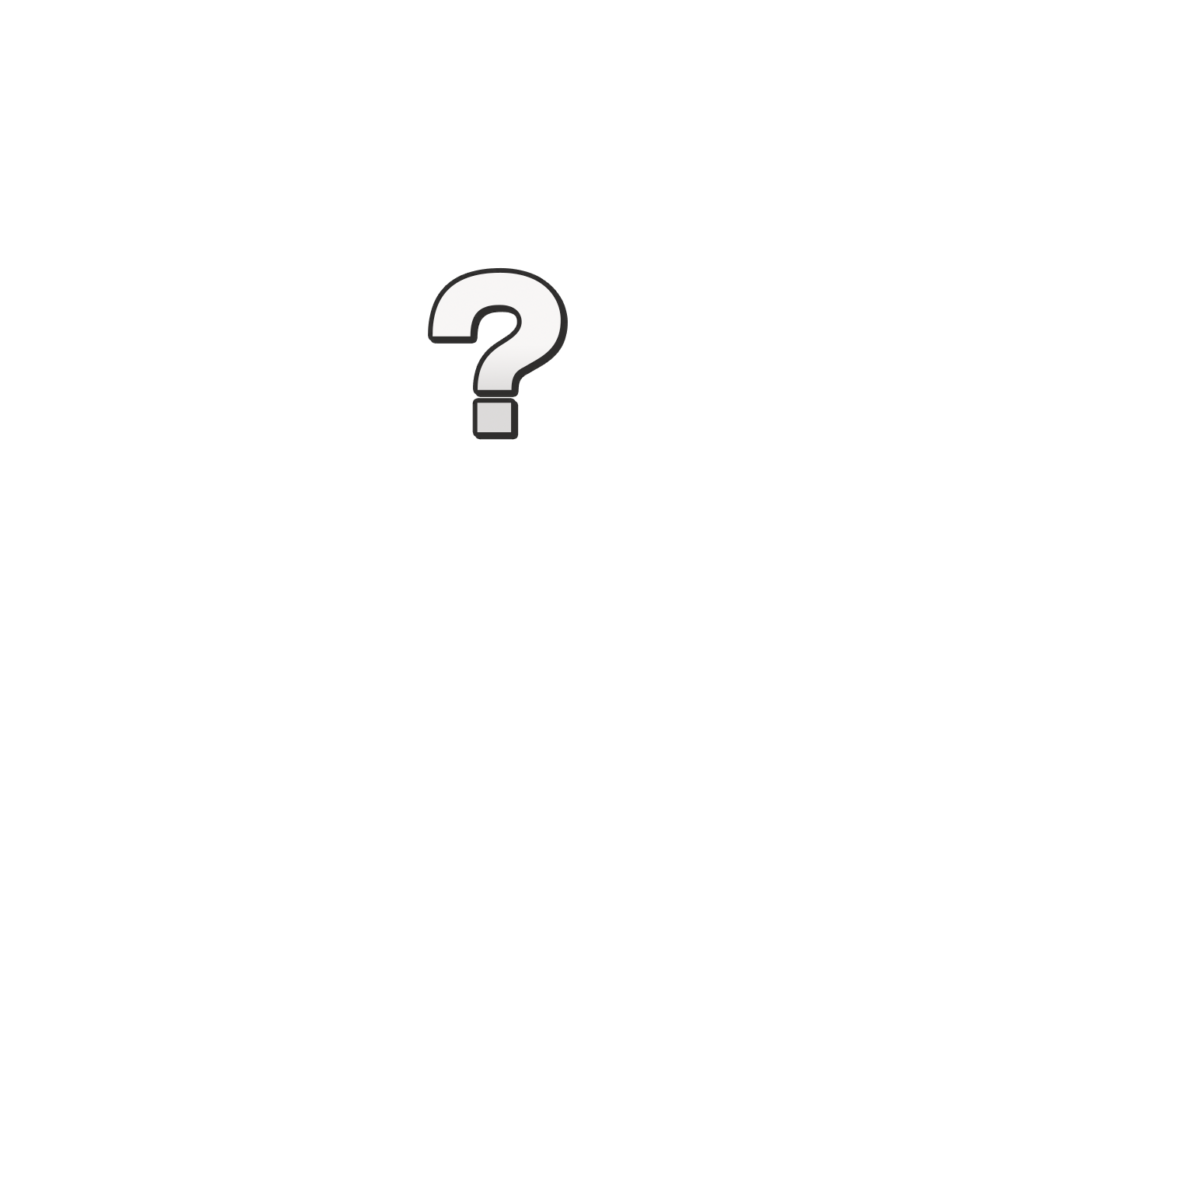
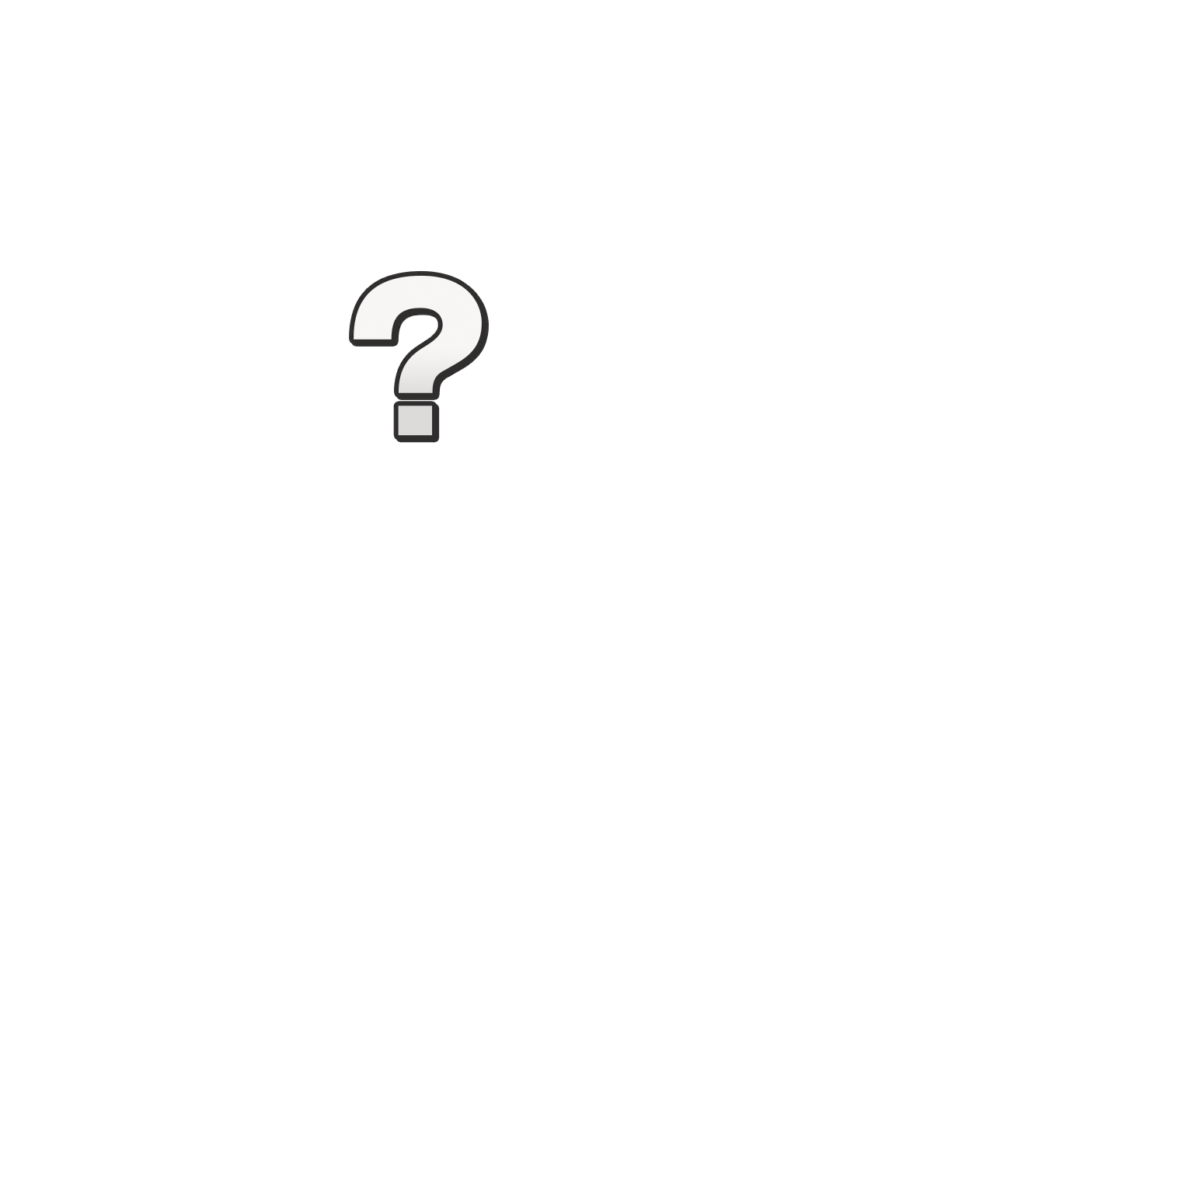
Big bad bugfix part 2 • Refactored release date display to work more • Moveset source code now displays properly • Movesets exclusive to a modpack now display source code link in place of gamebanana link • Tweaked position of question mark in the unknown moveset hero • New links underneath moveset i

Changed region(s): [[0.2775, 0.2158, 0.4933, 0.37]]

diff --git a/CustomCharInfo.client/src/views/MovesetDetail.vue b/CustomCharInfo.client/src/views/MovesetDetail.vue
@@ -82,35 +82,23 @@
                 <p>
                   Availability:
                   <strong>
-                    <template v-if="moveset.releaseState?.releaseStateName === 'Released' && !moveset.gamebananaPageId && !moveset.releaseDate">
-                      Released
-                    </template>
-                    <template v-else-if="moveset.releaseState?.releaseStateName === 'Released' && moveset.gamebananaPageId && !moveset.releaseDate">
-                      <a :href="`${GB_PAGE_URL}${moveset.gamebananaPageId}`" target="_blank" class="offsite unvisitable">
-                        Released
-                      </a>
-                    </template>
-                    <template v-else-if="moveset.modpackName">
-                      This moveset is exclusive to {{ moveset.modpackName }}
-                    </template>
-                    <template v-else-if="moveset.releaseState?.releaseStateName === 'Released'">
-                      <a :href="`${GB_PAGE_URL}${moveset.gamebananaPageId}`" target="_blank" class="offsite unvisitable">
-                        Released {{ new Date(moveset.releaseDate).toLocaleDateString() }}
-                      </a>
-                    </template>
-                    <template v-else-if="moveset.releaseState?.releaseStateName === 'Unreleased' && moveset.gamebananaWipId">
-                      <a :href="`${GB_PAGE_URL}${moveset.gamebananaPageId}`" target="_blank" class="offsite unvisitable">
-                        Released {{ new Date(moveset.releaseDate).toLocaleDateString() }}
-                      </a>
-                    </template>
-                    <template v-else-if="moveset.releaseState?.releaseStateName === 'Pending Update'">
-                      <a :href="`${GB_PAGE_URL}${moveset.gamebananaPageId}`" target="_blank" class="offsite unvisitable">
-                        Originally Released {{ new Date(moveset.releaseDate).toLocaleDateString() }}
-                      </a>, {{ moveset.releaseState?.releaseStateName }}
-                    </template>
-                    <template v-else>
+                    <span v-if="releaseDisplay">
+                      <template v-if="releaseDisplay.url">
+                        <a
+                          :href="releaseDisplay.url"
+                          target="_blank"
+                          class="offsite unvisitable"
+                        >
+                          {{ releaseDisplay.text }}
+                        </a>
+                      </template>
+                      <template v-else>
+                        {{ releaseDisplay.text }}
+                      </template>
+                    </span>
+                    <span v-else>
                       {{ moveset.releaseState?.releaseStateName }}
-                    </template>
+                    </span>
                   </strong>
                 </p>
 
@@ -120,8 +108,8 @@
                     View {{ moveset.moddedCharName }} on SSBU Mods Wiki
                   </a>
                 </p>
-                <p v-if="moveset.sourceCodeUrl">
-                  <a :href="moveset.sourceCodeUrl" target="_blank" class="offsite unvisitable">Source Code</a>
+                <p v-if="moveset.sourceCode && !moveset.modpackName">
+                  <a :href="moveset.sourceCode" target="_blank" class="offsite unvisitable">Source Code</a>
                 </p>
               </div>
             </div>
@@ -237,6 +225,94 @@ const userIsModder = computed(() => {
   return moveset.value.movesetModders.some(mm => mm.modderId === user.value.modderId)
 })
 
+// Calculate the releaseState to display
+const releaseDisplay = computed(() => {
+  if (!moveset.value) return null
+
+  const {
+    modpackName,
+    sourceCode,
+    releaseState,
+    gamebananaPageId,
+    gamebananaWipId,
+    releaseDate
+  } = moveset.value
+
+  const state = releaseState?.releaseStateName
+  const pageUrl = gamebananaPageId ? `${GB_PAGE_URL}${gamebananaPageId}` : null
+  const wipUrl = gamebananaWipId ? `${GB_PAGE_URL}${gamebananaWipId}` : null
+  const url = pageUrl || wipUrl
+
+  const hasDate = !!releaseDate
+  const date = hasDate ? new Date(releaseDate) : null
+  const today = new Date()
+  const isPast = date && date <= today
+
+  const formatDate = (d) => d.toLocaleDateString()
+
+  // Modpack
+  if (modpackName) {
+    return {
+      text: `Exclusive to ${modpackName}`,
+      url: sourceCode || null
+    }
+  }
+
+  // Depreciated
+  if (state === 'Depreciated') {
+    return { text: 'Depreciated', url }
+  }
+
+  // Beta testing
+  if (state === 'Open for Beta Testing') {
+    let text = 'Open for Beta Testing'
+    if (hasDate) {
+      text += isPast
+        ? ` (Released ${formatDate(date)})`
+        : ` (Releases ${formatDate(date)})`
+    }
+
+    return { text, url }
+  }
+
+  // Pending Update
+  if (state === 'Pending Update') {
+    if (!hasDate) {
+      return { text: 'Pending Update', url }
+    }
+
+    return {
+      text: isPast
+        ? `Originally Released ${formatDate(date)}`
+        : `Update Releases ${formatDate(date)}`,
+      url
+    }
+  }
+
+  // Released
+  if (state === 'Released') {
+    let text = 'Released'
+    if (hasDate) {
+      text += ` ${formatDate(date)}`
+    }
+
+    return { text, url }
+  }
+
+  // Unreleased
+  if (state === 'Unreleased') {
+    let text = 'Upcoming'
+    if (hasDate) {
+      text += ` ${formatDate(date)}`
+    }
+
+    return { text, url }
+  }
+
+  return null
+})
+
+// Mounted
 onMounted(async () => {
   try {
     const movesetRes = await api.get(`/movesets/${route.params.movesetId}`)
@@ -344,7 +420,7 @@ const StatusIcon = defineComponent({
 
 .column-right {
   flex: 9;
-  margin-top: 40px;
+  margin-top: 5em;
 }
 
 .title-container {

diff --git a/CustomCharInfo.client/src/components/MovesetForm.vue b/CustomCharInfo.client/src/components/MovesetForm.vue
@@ -220,9 +220,16 @@
             />
             <v-img
               :src="getFullImageUrl(form.thumbhImageUrl) || thumbhUnknown"
-
               class="mt-2 preview-image"
             />
+            <!-- Download -->
+            <a
+              :href="thumbhUnknown"
+              download
+              class="unvisitable text-caption"
+            >
+              Download placeholder image
+            </a>
           </v-col>
           <!-- Hero Upload -->
           <v-col cols="12" sm="6">
@@ -238,6 +245,14 @@
               class="mt-2 preview-image"
               cover
             />
+            <!-- Download -->
+            <a
+              :href="movesetHeroUnknown"
+              download
+              class="unvisitable text-caption"
+            >
+              Download placeholder image
+            </a>
           </v-col>
           <!-- Background Color -->
           <v-col cols="12" sm="4">
@@ -866,6 +881,13 @@ section h2 {
   margin-top: -1.5em;
   margin-bottom: 0.5em;
   font-size: 12px;
+}
+
+/* Img download caption link helper */
+.text-caption {
+  font-family: unset;
+  margin-top: 0;
+  display: block;
 }
 
 /* Toggle form button */

diff --git a/CustomCharInfo.client/src/router/index.js b/CustomCharInfo.client/src/router/index.js
@@ -466,7 +466,7 @@ const routes = [
     path: '/action-log-manager',
     name: 'AdminAccepter',
     component: AdminAccepter,
-    meta: { title: 'Admin Accepter' },
+    meta: { title: 'Action Log Manager' },
     beforeEnter: async (to, from, next) => {
       try {
         const user = (await api.get('/auth/me')).data;

diff --git a/CustomCharInfo.server/Controllers/ApiContoller.cs b/CustomCharInfo.server/Controllers/ApiContoller.cs
@@ -1097,7 +1097,7 @@ namespace CustomCharInfo.server.Controllers
 
             // Find latest log; Don't allow editing if last acceptance state isn't what's expected.
             var latestLog = await _context.ActionLogs
-                .Where(a => a.ItemTypeId == 2 && a.ItemId == id)
+                .Where(a => a.ItemTypeId == 1 && a.ItemId == id)
                 .OrderByDescending(a => a.CreatedAt)
                 .FirstOrDefaultAsync();
             if (latestLog?.AcceptanceStateId == 6)
